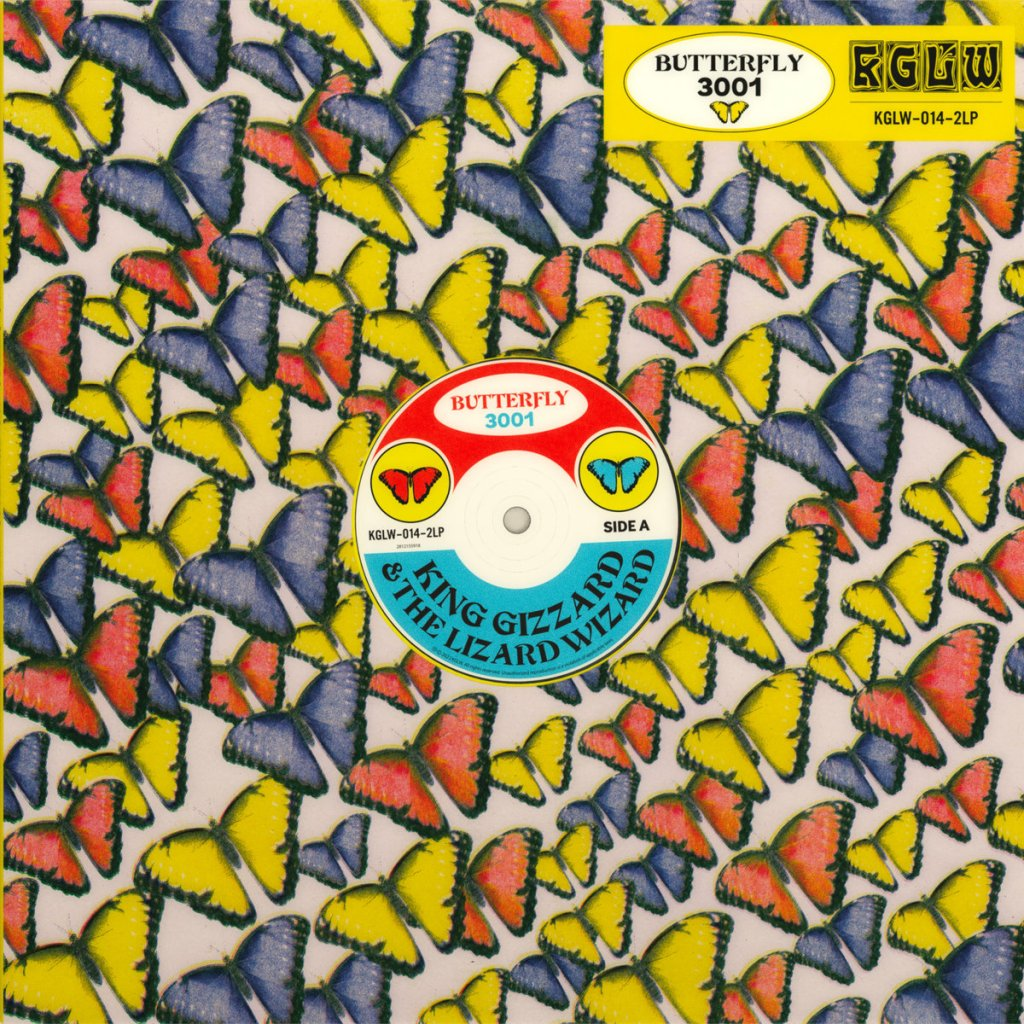
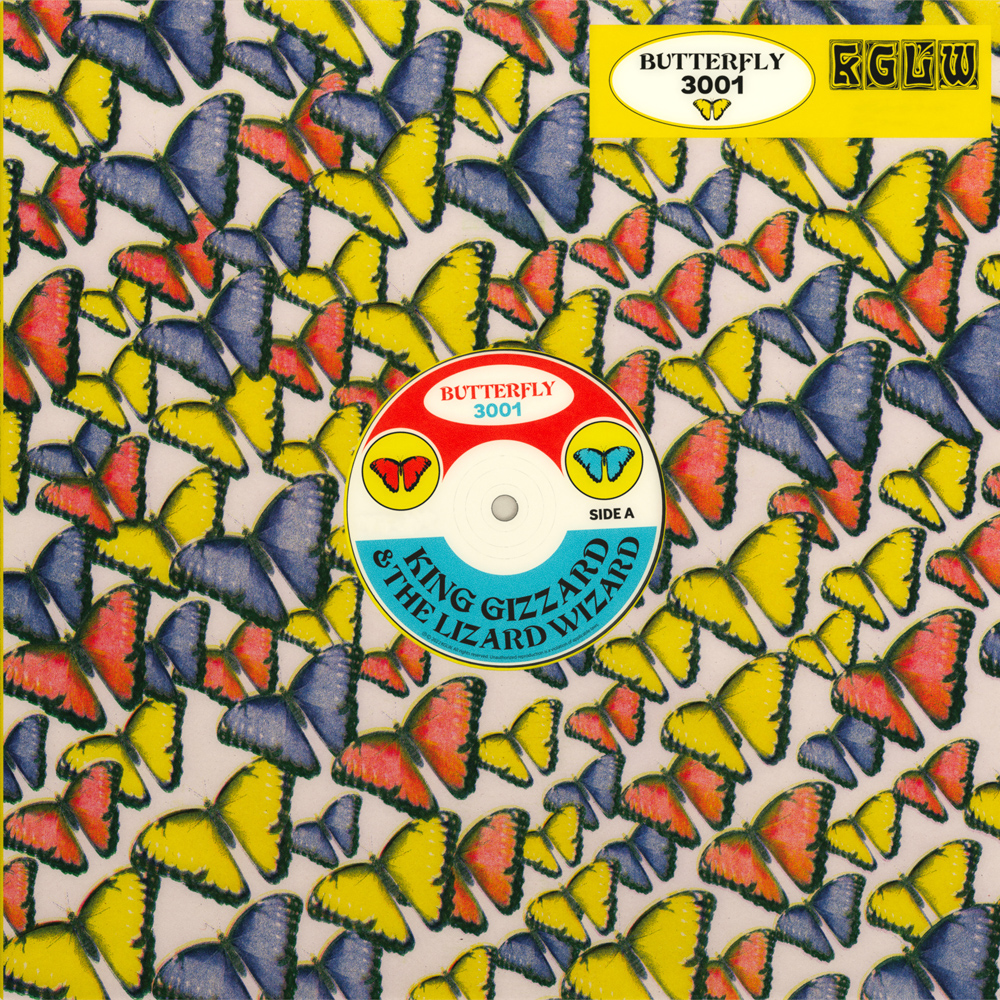
larger images for official releases

diff --git a/releases/omnium-gatherum/index.md b/releases/omnium-gatherum/index.md
@@ -4,7 +4,7 @@ title: "Omnium Gatherum"
 bandcamp: https://kinggizzard.bandcamp.com/album/omnium-gatherum
 release_date: 2022-04-22
 discogs: https://www.discogs.com/master/2680088-King-Gizzard-And-The-Lizard-Wizard-Omnium-Gatherum
-cover: ./cover.png
+cover: ./cover.jpg
 redirect_from:
   - /releases/omnium-gatherium
   - /releases/omnium-gatherium/

diff --git a/releases/infest-the-rats-nest/index.md b/releases/infest-the-rats-nest/index.md
@@ -4,7 +4,7 @@ title: "Infest the Rats' Nest"
 bandcamp: https://kinggizzard.bandcamp.com/album/infest-the-rats-nest-2
 release_date: 2019-08-16
 discogs: https://www.discogs.com/master/1590025-King-Gizzard-And-The-Lizard-Wizard-Infest-The-Rats-Nest
-cover: ./cover.png
+cover: ./cover.jpg
 ---
 
 > Open your eyes and light the fluid  

diff --git a/releases/fishing-for-fishies/index.md b/releases/fishing-for-fishies/index.md
@@ -4,7 +4,7 @@ title: "Fishing For Fishies"
 bandcamp: https://kinggizzard.bandcamp.com/album/fishing-for-fishies
 release_date: 2019-04-26
 discogs: https://www.discogs.com/master/1535227-King-Gizzard-And-The-Lizard-Wizard-Fishing-For-Fishies
-cover: ./cover.png
+cover: ./cover.jpg
 ---
 
 > Fishing for fishies  

diff --git a/releases/nonagon-infinity/index.md b/releases/nonagon-infinity/index.md
@@ -4,7 +4,7 @@ title: "Nonagon Infinity"
 bandcamp: https://kinggizzard.bandcamp.com/album/nonagon-infinity-2
 release_date: 2016-04-29
 discogs: https://www.discogs.com/master/992310-King-Gizzard-And-The-Lizard-Wizard-Nonagon-Infinity
-cover: ./cover.png
+cover: ./cover.jpg
 ---
 
 > Loosen up  

diff --git a/releases/lw/index.md b/releases/lw/index.md
@@ -4,7 +4,7 @@ title: "L.W."
 bandcamp: https://kinggizzard.bandcamp.com/album/l-w
 release_date: 2021-02-25
 discogs: https://www.discogs.com/master/1996411-King-Gizzard-And-The-Lizard-Wizard-LW
-cover: ./cover.png
+cover: ./cover.jpg
 redirect_from:
   - /releases/l-w
 ---
